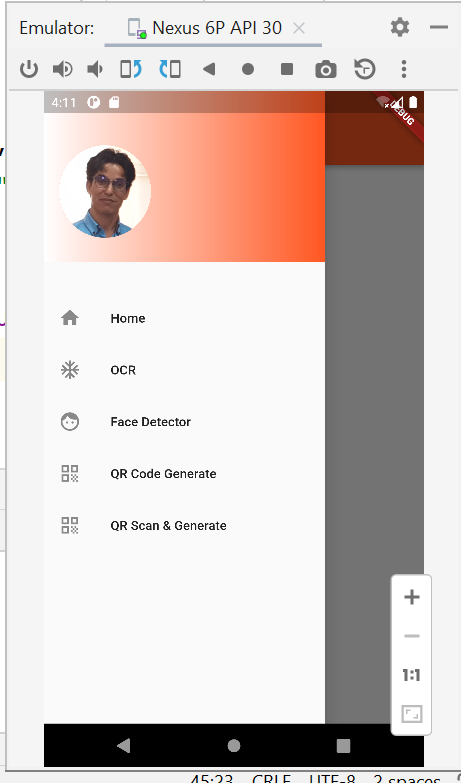
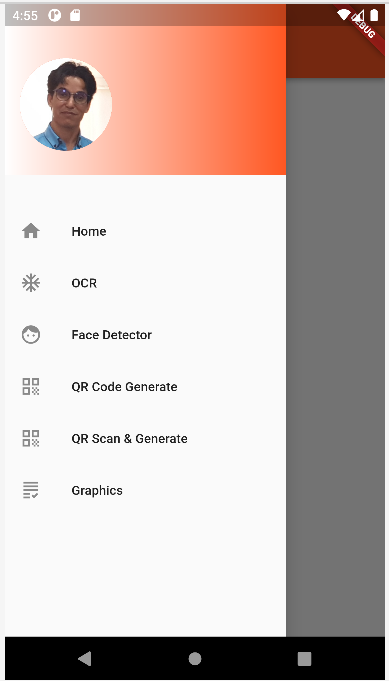
Second Commit Graphics Page

diff --git a/lib/pages/graphics.page.dart b/lib/pages/graphics.page.dart
@@ -1,0 +1,78 @@
+import 'package:flutter/material.dart';
+import 'dart:math';
+
+import '../widgets/painter.dart';
+class GraphicsPage extends StatefulWidget {
+  const GraphicsPage({Key? key}) : super(key: key);
+  @override
+  State<GraphicsPage> createState() => _GraphicsPageState();
+}
+
+class _GraphicsPageState extends State<GraphicsPage> with TickerProviderStateMixin {
+  double radius=50;
+  late Animation<double> animation;
+  late AnimationController animationController;
+  @override
+  void initState() {
+    // TODO: implement initState
+    super.initState();
+    animationController= AnimationController(vsync: this, duration: Duration(seconds: 4));
+    Tween<double> tween= Tween(begin: -pi,end: pi);
+    animation= tween.animate(animationController)
+      ..addListener(() {
+        setState(() {
+        });})
+      ..addStatusListener((status) {
+        if(status==AnimationStatus.completed){
+          animationController.repeat();
+        } else if(status==AnimationStatus.dismissed ){
+          animationController.forward();
+        }
+      })
+    ;
+    animationController.forward();
+  }
+  @override
+  void dispose() {
+    // TODO: implement dispose
+    animationController.dispose();
+    super.dispose();
+  }
+  @override
+  Widget build(BuildContext context) {
+    return Scaffold(
+      appBar: AppBar(
+        title: Text('Graphics Animation'),
+      ),
+      body:Column(
+        crossAxisAlignment: CrossAxisAlignment.start,
+        mainAxisAlignment: MainAxisAlignment.center,
+        children: [
+          Expanded(
+            child: AnimatedBuilder(
+              animation: animation,
+              builder: (context,snapshot){
+                return CustomPaint(
+                  painter: ShapePainter(animation.value, radius),
+                  child: Container(),
+                );
+              },
+            ),
+          ),
+          Slider(
+              value: radius,
+              min: 50,
+              max: 300,
+              label: radius.toString(),
+              divisions: 10,
+              onChanged: (value){
+                setState(() {
+                  radius=value;
+                });
+              }
+          )
+        ],
+      )
+    );
+  }
+}

diff --git a/lib/widgets/painter.dart b/lib/widgets/painter.dart
@@ -1,0 +1,44 @@
+import 'dart:math';
+import 'package:flutter/material.dart';
+class ShapePainter extends CustomPainter {
+  final double radians;
+  final double radius;
+  ShapePainter(this.radians, this.radius);
+  @override
+  void paint(Canvas canvas, Size size) {
+    final double xc=size.width/2;
+    final double yc=size.height/2;
+    Offset center=Offset(xc, yc);
+    final double xc2=xc+radius*2*cos(radians);
+    final double yc2=yc+radius*2*sin(radians);
+    Offset centre2=Offset(xc2,yc2);
+    Paint paint=Paint()
+      ..color=const Color.fromRGBO(255, 255, 0, 0.5)
+      ..strokeWidth=5
+      ..style=PaintingStyle.fill
+      ..strokeCap = StrokeCap.round
+    ;
+    Paint paint2=Paint()
+      ..color=const Color.fromRGBO(255, 0, 0, 0.5)
+      ..strokeWidth=5
+      ..style=PaintingStyle.fill
+      ..strokeCap = StrokeCap.round;
+    Paint paint3=Paint()
+      ..color=Colors.deepOrange
+      ..strokeWidth=5
+      ..style=PaintingStyle.stroke
+      ..strokeCap = StrokeCap.round;
+    canvas.drawCircle(center, radius*2, paint3);
+    canvas.drawCircle(centre2, radius+2, paint2);
+    canvas.drawCircle(centre2, radius, paint);
+    final double xp= radius*cos(radians*3)+xc2;
+    final double yp=yc2+radius*sin(radians*3);
+    canvas.drawCircle(centre2, 5, paint2);
+    canvas.drawLine(centre2, Offset(xp,yp), paint2);
+    canvas.drawCircle(Offset(xp,yp), 10, paint2);
+  }
+  @override
+  bool shouldRepaint(covariant CustomPainter oldDelegate) {
+    return true;
+  }
+}

diff --git a/lib/main.dart b/lib/main.dart
@@ -1,5 +1,6 @@
 /// @Author : Mohamed YOUSSFI : med@youssfi.net
 import 'package:flutter/material.dart';
+import 'package:ocr_app/pages/graphics.page.dart';
 import 'package:ocr_app/pages/face.detector.page.dart';
 import 'package:ocr_app/pages/home.page.dart';
 import 'package:ocr_app/pages/ocr.page.dart';
@@ -23,7 +24,8 @@ class MyApp extends StatelessWidget {
         "/ocr":(context)=>const OcrPage(),
         "/face":(context)=>const FaceDetectorPage(),
         "/QR":(context)=>const QRCodePage(),
-        "/scanQR": (context)=> const QRViewScannerPage()
+        "/scanQR": (context)=> const QRViewScannerPage(),
+        "/graphics": (context)=> const GraphicsPage()
       },
     );
   }

diff --git a/lib/widgets/drawer.widget.dart b/lib/widgets/drawer.widget.dart
@@ -9,6 +9,7 @@ class MyDrawer extends StatelessWidget {
     {"title":"Face Detector", "icon": Icon(Icons.face), "route":"/face"},
     {"title":"QR Code Generate", "icon": Icon(Icons.qr_code), "route":"/QR"},
     {"title":"QR Scan & Generate", "icon": Icon(Icons.qr_code), "route":"/scanQR"},
+    {"title":"Graphics", "icon": Icon(Icons.grading), "route":"/graphics"},
   ];
   @override
   Widget build(BuildContext context) {
